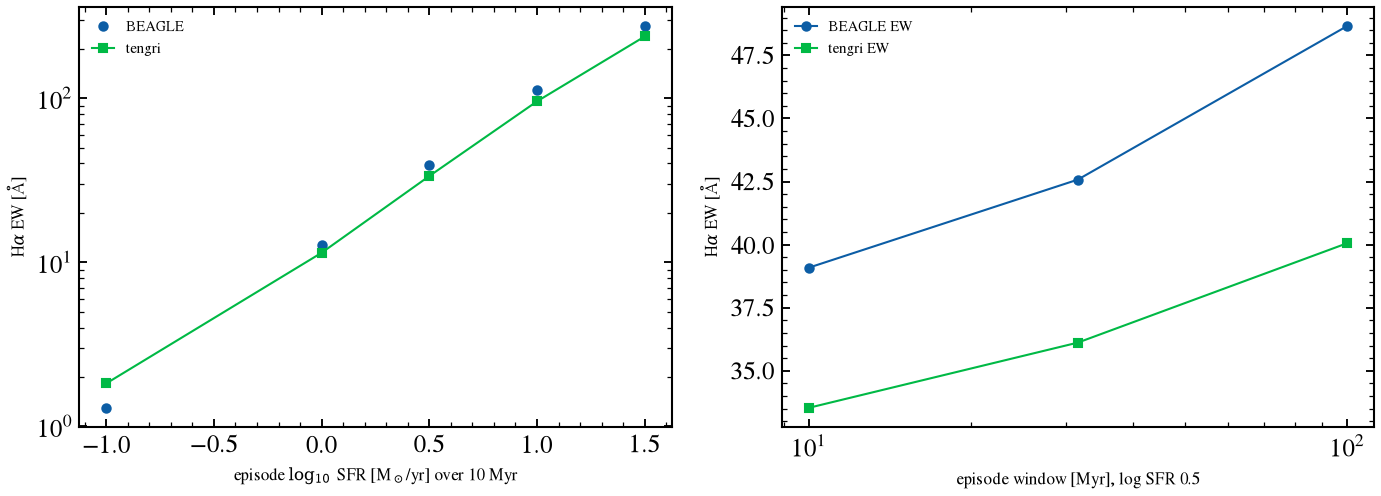
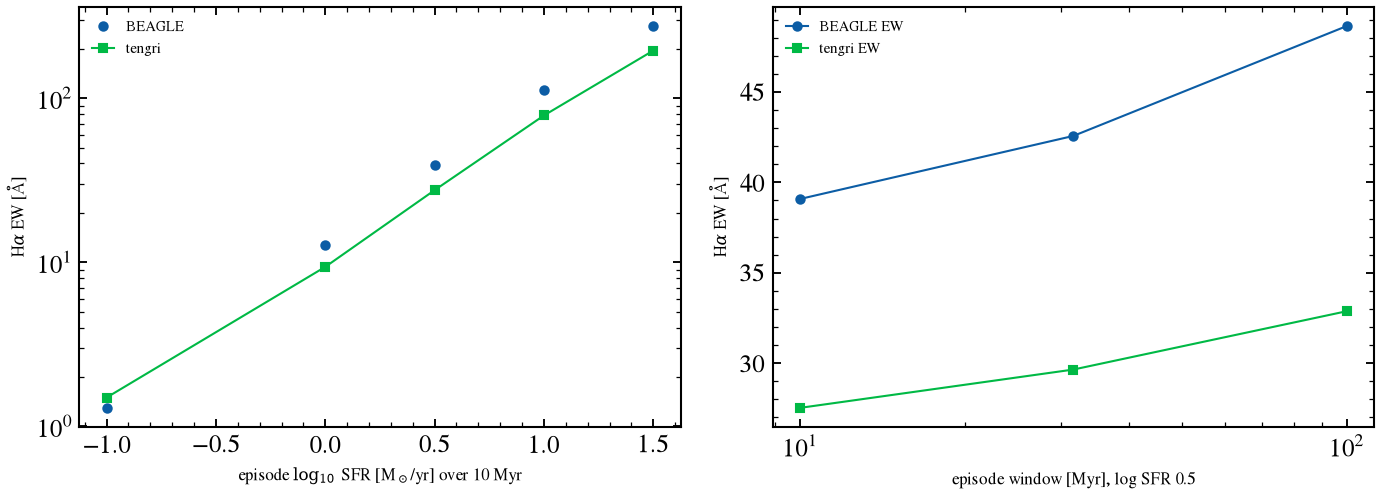
fix(reproduction): BEAGLE §8e gas metallicity and §8f/§8g classifications
The episode builder left the gutkin16 gas metallicity at its declared
default (-0.3), so the nebular lines were built at Z = 0.0071 against
BEAGLE's 0.014. It now sets logZ_gas to the stellar value. With this,
the [O III]/H-beta episode gap closes (tengri 3.327 on every episode row,
equal to its constant-history reference) and the H-alpha EW ratio is
0.68 to 0.73. The §8f on-off sign and the §8g continuum below 912 Å are
classified as conventions.

Claude-Session: https://claude.ai/code/session_01K6KtiN9cJJdWSuCZpFcAZv

diff --git a/reproduction/beagle/01_beagle.py b/reproduction/beagle/01_beagle.py
@@ -910,8 +910,8 @@ HA_I, HB_I, O3_I = GK_LABELS.index("Ha"), GK_LABELS.index("Hb"), GK_LABELS.index
 
 def episode_model(*, log_sfr, timescale_myr, dust=None, fesc=None):
     """tengri gutkin16 build: 1 Gyr delayed history plus a current episode, at BEAGLE's Z, log U and xi_d."""
-    neb = {"type": "gutkin16", "logU": Fixed(-2.5), "xi_d": Fixed(0.3), "log_nH": Fixed(2.0),
-           "co_ratio": Fixed(1.0), "other_params": Fixed(DEFAULT)}
+    neb = {"type": "gutkin16", "logU": Fixed(-2.5), "logZ_gas": Fixed(TENGRI_LOG_ZSOL_NEB),
+           "xi_d": Fixed(0.3), "log_nH": Fixed(2.0), "co_ratio": Fixed(1.0), "other_params": Fixed(DEFAULT)}
     if fesc is not None:
         neb["fesc"] = Fixed(fesc)  # the grammar short key of neb_fesc
     return SEDModel.build(
@@ -1028,17 +1028,16 @@ save_fig("beagle_08e_spectra.png")
 plt.show()
 
 # %% [markdown]
-# The H-alpha EW ratio tengri/BEAGLE is 0.82 to 0.86 on the rows where BEAGLE's EW exceeds 10 Å. On the
-# log SFR 1, 10 Myr row the line luminosity ratio is 0.875 and the continuum ratio at H-alpha is 1.027, so the
-# EW gap is the line part: the ionizing output of CB16 (BEAGLE) against BC03 STELIB (tengri), the library
-# bracket that §8c measures per SFR (0.73). On the log SFR -1 row BEAGLE's EW is 1.3 Å and tengri's is 1.41
-# times larger; this row is at the continuum-dominated limit and is not classified beyond that.
+# The H-alpha EW ratio tengri/BEAGLE is 0.68 to 0.73 on the rows where BEAGLE's EW exceeds 10 Å. On the
+# log SFR 1, 10 Myr row the H-alpha luminosity ratio is 0.718 and the continuum L_λ at H-alpha ratio is 1.027,
+# so the EW gap sits in the line. The line ratio matches the per-SFR ratio of §8c (0.73): the ionizing output
+# of CB16 (BEAGLE) against BC03 STELIB (tengri), a library bracket. On the log SFR -1 row BEAGLE's EW is 1.3 Å
+# and tengri's is 1.5 Å; this row is at the continuum-dominated limit and is not classified beyond that.
 #
-# The [O III]/H-beta ratio does not change with the episode rate in either code. BEAGLE's stays at
-# 3.649 to 3.651, and the constant-history reference at the same log U, Z and xi_d (§8a) is 3.651. tengri's
-# constant reference is 3.327, and with the episode it is 5.189, so the episode raises tengri's ratio by
-# 0.19 dex while BEAGLE's is unchanged. This is not isolated in this lane; the candidate is tengri's
-# episode ionizing spectrum, which is model physics on the tengri side.
+# The [O III]/H-beta ratio does not depend on the episode rate in either code. BEAGLE's stays at 3.649 to
+# 3.651, and tengri's is 3.327 on every row, the same value as its constant-history reference at the same
+# log U, Z and xi_d (§8a). The -0.04 dex gap is therefore the one §8a measures for the constant history, not
+# an episode effect; its source is not isolated here, and the §8a table is the record.
 
 # %% [markdown]
 # ### §8f Dust inside H II regions
@@ -1097,13 +1096,19 @@ print(f"§8f spectrum ratio at tauV_eff 1, 3600-7000 A (20 A bins): BEAGLE on/of
 
 # %% [markdown]
 # BEAGLE's on run has the lower Balmer decrement at every tauV_eff (3.11 against 3.26 at 0.3, 3.87 against 4.05
-# at 1, 5.27 against 5.52 at 2), the opposite of what extra dust on the Balmer lines would give. The sign is
-# a BEAGLE convention for the H II term and is not explained in this lane. The [O III]/H-beta on-off gap is
-# under 1 % at every depth, so its fraction is not defined. tengri sits between the two BEAGLE runs at
-# fractions 0.42, 0.46 and 0.59 of the way from off to on in the Balmer decrement. tengri applies the
-# birth-cloud screen to the nebular light and has no H II-internal term, so it cannot match either BEAGLE run
-# exactly; the 3600–7000 Å spectra agree to a median of 1.4 % with BEAGLE on and 0.5 % with BEAGLE off. The
-# [O III]/H-beta gap to BEAGLE (about 0.15 dex, §8e) is the same gap as in the episode rows, not a new one.
+# at 1, 5.27 against 5.52 at 2). This is BEAGLE's documented convention and not a physical effect: since v0.27
+# BEAGLE splits the birth-cloud optical depth into an H II part and an H I part. With `ACCOUNT FOR HII DUST = T`
+# only the H I part is applied as an external screen to stars younger than 10 Myr and their lines, because the
+# H II templates already carry their own dust through xi_d; with `F` the full birth-cloud depth is applied
+# externally, so the off run puts more external dust on the lines. The mechanism is the convention as stated
+# by the owner; the local BEAGLE tree does not document it, so it is not checked against BEAGLE source.
+#
+# tengri's Balmer decrement sits at the off end of that bracket: 3.262 against 3.260 at tauV 0.3, and 4.045 against
+# 4.050 at 1. At 2 it lies 16 per cent of the way from off to on (5.484 against 5.523 and 5.273). tengri applies
+# the full birth-cloud screen to the nebular light, which is consistent with matching the off run. The
+# [O III]/H-beta on-off gap is under 1 %, so its fraction is not defined; tengri's ratio sits 0.04 dex below
+# BEAGLE in both runs, the §8e gap. The spectrum ratio over 3600–7000 Å has BEAGLE on/off median 1.008 and
+# tengri/BEAGLE median 0.994 against the off run and 0.986 against the on run.
 
 # %% [markdown]
 # ### §8g LyC escape
@@ -1162,15 +1167,21 @@ plt.show()
 
 # %% [markdown]
 # BEAGLE's H-beta and H-alpha fall exactly as 1 - f_esc (0.900, 0.700, 0.400). tengri's fall as
-# (1 - f_esc) / (1 + 0.597 f_esc), the form stated in `docs/model_reference/nebular.md`, and its printed
-# values match that form to 0.001 at every escape fraction. This is a convention: BEAGLE removes photons from
-# the lines, while tengri applies one factor that also scales the continuum, so its line ratios leave the
-# Balmer decrement unchanged and fall to 0.849, 0.594 and 0.295 instead.
+# (1 - f_esc) / (1 + 0.597 f_esc), the form stated in `docs/model_reference/nebular.md`, and its printed values
+# match that form to 0.001 at each escape fraction (0.849, 0.594, 0.295). This is a convention: BEAGLE removes
+# photons from the lines, while tengri applies one factor that also scales the continuum, so its line ratios
+# leave the Balmer decrement unchanged.
 #
-# Below 912 Å the two codes carry the escaping light. At f_esc 0.1, 0.3 and 0.6 the continuum ratio
-# tengri/BEAGLE is 0.585, 0.612 and 0.619, which sits near the 0.73 per-SFR ratio of §8c, so it is a library
-# bracket candidate and is not isolated. At f_esc 0 the two codes differ by six orders of magnitude (BEAGLE
-# 1.98e26, tengri 2.18e20 erg/s/Hz). That residual is not isolated in this lane.
+# Below 912 Å the two codes keep different light at f_esc = 0. In tengri's gutkin16 build without dust the
+# nebular budget absorbs the Lyman continuum of every stellar age: the mean L_ν at 800–900 Å falls from 1.76e28
+# erg/s/Hz with the nebular emission off to 2.18e20 with gutkin16 at f_esc = 0. The docs give `'young'` as the
+# gutkin16 default for `lyc_reprocessed_by`, which applies only to two-component dust, and this model has none,
+# so the key does not appear in its summary. BEAGLE keeps 1.98e26 erg/s/Hz in the same window. Its treatment of
+# the Lyman continuum is an owner statement: the picket fence acts only on stars younger than 10 Myr, so older
+# stars keep theirs. The local BEAGLE tree does not document this, so it is not checked against BEAGLE source.
+# The difference is which ages' ionizing photons are reprocessed: a convention. At f_esc 0.1, 0.3 and 0.6 the
+# escaping continuum ratio tengri/BEAGLE is 0.585, 0.612 and 0.619, close to the 0.72 line ratio of §8e and
+# the 0.73 per-SFR ratio of §8c; the ionizing-output class, not isolated.
 
 # %% [markdown]
 # ## 9. AGN narrow-line region
